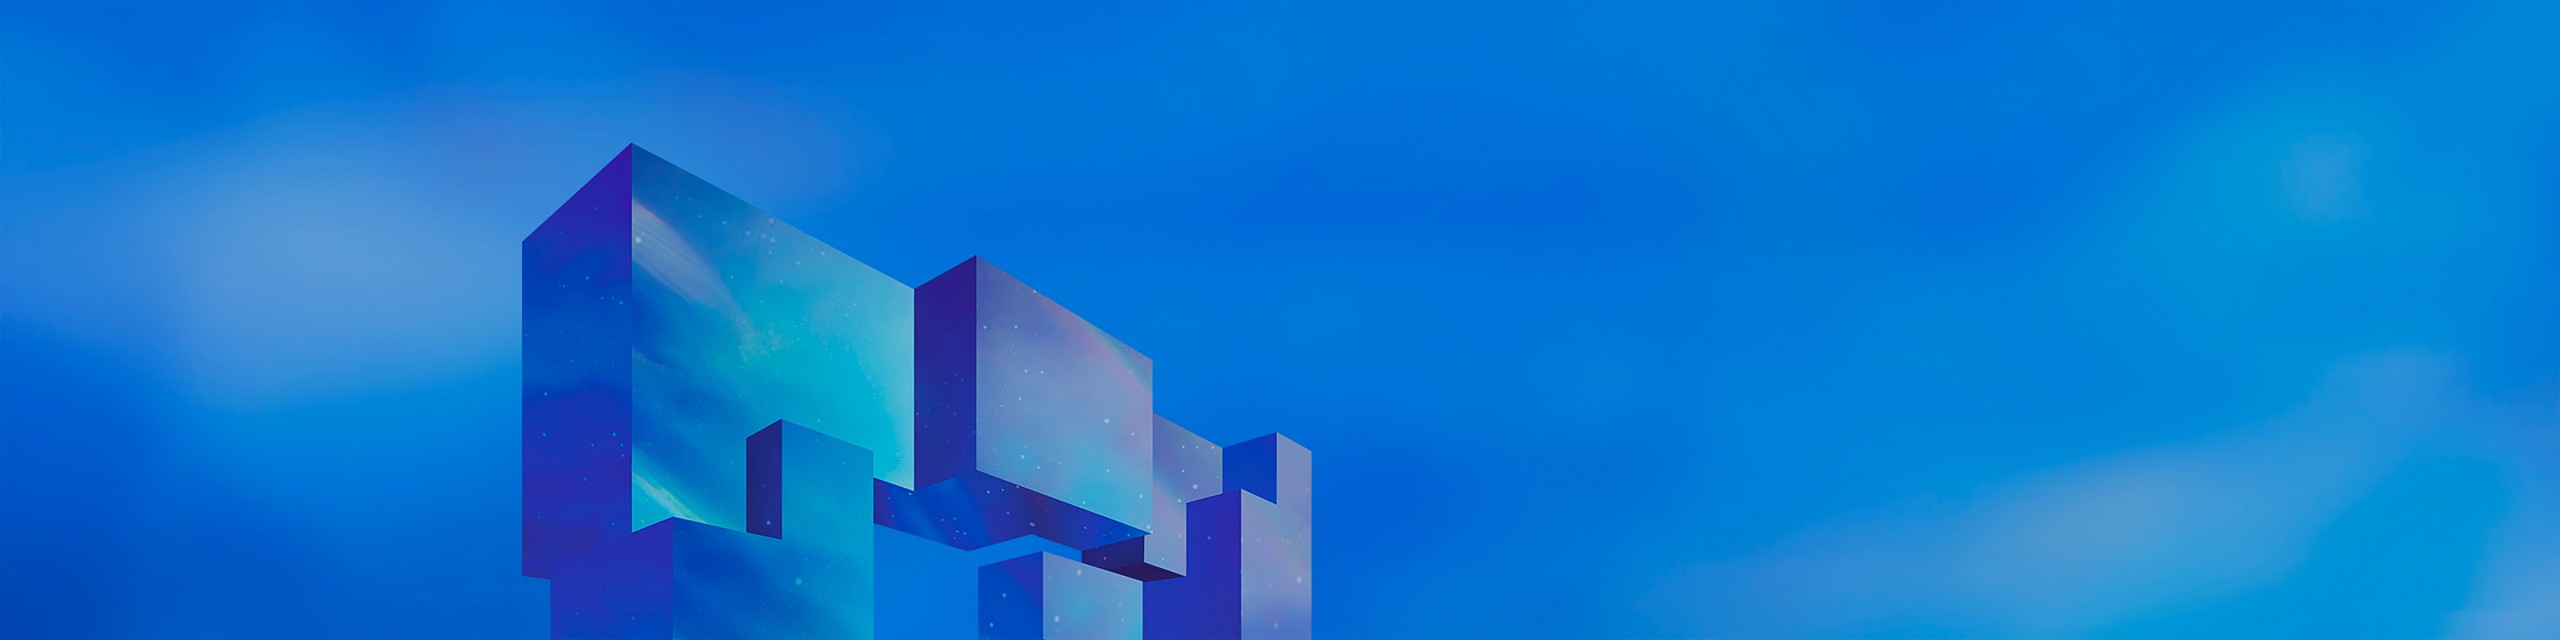
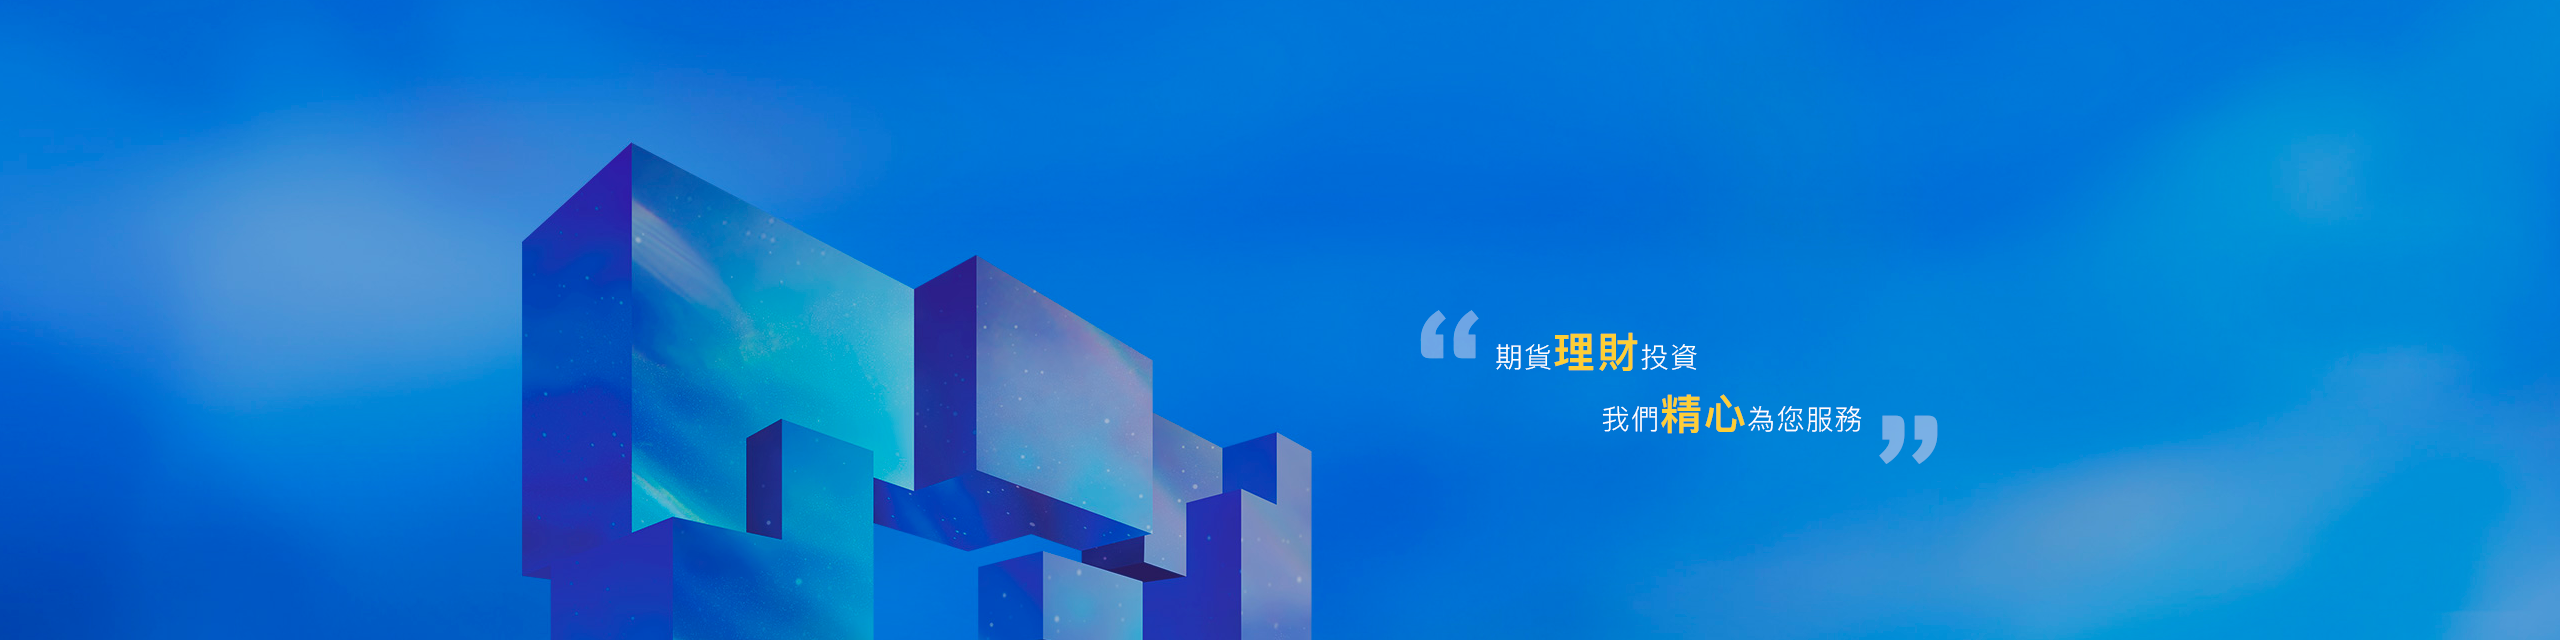
更新至6.26

Changed region(s): [[0.625, 0.625, 0.7812, 0.7188], [0.5312, 0.5, 0.6562, 0.5938]]

diff --git a/demo/view/introduce/brief.js b/demo/view/introduce/brief.js
@@ -97,7 +97,7 @@ class ModuleCulture extends Component{
                  </div>
                 <div className="sum">
                     <p >
-                        公司坚持诚信务实，稳健经营、规范管理，切实的站在客户的立场．从客户的利益出发．确保客户资金和交易信息的安全，从而实现双赢。公司
+                    <span className="common charStart">“</span> 公司坚持诚信务实，稳健经营、规范管理，切实的站在客户的立场．从客户的利益出发．确保客户资金和交易信息的安全，从而实现双赢。公司
                     </p>
                     <p>
                         秉承“诚信、专业、创新、发展”的经营理念，以风险控制为前提、以市场为导向、以客户为中心、以效益为目标，追求可持续发展，
@@ -105,8 +105,8 @@ class ModuleCulture extends Component{
                     <p>
                         力争发展成为“资本充足、运作安全、管理规范、服务优质、效益良好、有核心竞争力”的现代金融服务企业。    
                     </p>
-                    <p>
-                        传播期货知识，培养和成就投资人，与客户共同成长。
+                    <p style={{ marginTop: "-1.5vw"}}>
+                        传播期货知识，培养和成就投资人，与客户共同成长。<span className="common charEnd">”</span> 
                     </p>
                 </div>
 

diff --git a/demo/view/component/chart/chartView/chartBar.js b/demo/view/component/chart/chartView/chartBar.js
@@ -63,7 +63,8 @@ import './chartBar.sass'
                 code: code,
                 height: this._ref.scrollHeight,
                 width: this._ref.scrollWidth,
-                contract: Contracts
+                contract: Contracts,
+                preset: 'mobiole'
             });
             Quote.start('quoteUpdate', code);
         });
@@ -76,7 +77,9 @@ import './chartBar.sass'
                     code: code, 
                     height: this._ref.scrollHeight,
                     width: this._ref.scrollWidth,
-                    contract: Contracts
+                    contract: Contracts,
+                    preset: 'mobiole'
+
                 });
                 Quote.start('quoteUpdate', code);
             }
@@ -266,7 +269,7 @@ class ChartBar extends Component {
                     </div>
                     {this.state.names.map( (name,key)=>{
                         return(
-                            <div  key={key} className={`marketName ${this.state.select === key ? "marketIsStyle" : "marketNoStyle" } `} onClick={ ()=>{this.setState({select: key}) }  }  >{ name }</div>
+                            <div  key={key} className={`marketName ${this.state.select === key ? "marketIsStyle" : "marketNoStyle" } `} onClick={ ()=>{this.setState({select: key}, ()=>{console.log(key)} ) }  }  >{ name }</div>
                         )
                     } )}
                 </div>

diff --git a/demo/view/common/header/header.js b/demo/view/common/header/header.js
@@ -19,9 +19,9 @@ const introduce = (
       <Menu.Item>
         <NavLink to="/introduce/brief">公司简介</NavLink>
       </Menu.Item>      
-      <Menu.Item>
+      {/* <Menu.Item>
         <NavLink to="/introduce/dynamics">公司动态</NavLink>
-      </Menu.Item>
+      </Menu.Item> */}
       <Menu.Item>
         <NavLink to="/introduce/advantages">公司优势</NavLink>
       </Menu.Item>
@@ -64,6 +64,7 @@ class Header extends Component {
     render() {
         return (
                 <div className={"navBox"}>
+                    <img className="cfLogo" src={require("../../../assets/images/cfLogo.png")} />
                     <ul className={"navBar"}>
                         <li>
                             <NavLink exact to="/">首页</NavLink>
@@ -91,9 +92,6 @@ class Header extends Component {
                         </li>
                         <li>
                             <NavLink to="/download">下载软件</NavLink>
-                        </li>
-                        <li>
-                            <NavLink to="/connection">联系我们</NavLink>
                         </li>
                     </ul>
                 </div>

diff --git a/demo/view/common/footer/footer.js b/demo/view/common/footer/footer.js
@@ -7,7 +7,8 @@ import './footer.sass';
 import Home from '../../home/home'
 
 const navItems = [
-    {title:'公司介绍', add:"/introduce/brief", list1:'公司动态', list1Add: '/introduce/dynamics', list2:'公司优势', list2Add:'/introduce/advantages' },
+    // ,list2:'公司动态', list2Add: '/introduce/dynamics'
+    {title:'公司介绍', add:"/introduce/brief",list1:'公司优势',list1Add:'/introduce/advantages' },
     {title:'行情中心', add:"/marketcenter",  list1:'国际期货', list1Add:'/marketcenter/international', list2:'股指期货', list2Add:'/marketcenter/stockindex', list3:'国内期货', list3Add:'/marketcenter/domestic' },
     {title:'资讯中心', add:"/infocenter", list1:'行业资讯', list1Add:'/infocenter/marketinfo', list2:'财经日历', list2Add:'/infocenter/dailynews', list3:'每周洞察' , list3Add:'/infocenter/everyweek' },
     {title:'下载中心', add:"/download", list1:'财经期货有限公司：贵金属|期货', list2:'客服QQ：2865002835',  list3:'地 址：香港岛薄扶林道东一单元', list4:'邮 箱：info@caifuqihuo.com'},

diff --git a/demo/view/component/tabControl/tabControl.js b/demo/view/component/tabControl/tabControl.js
@@ -45,7 +45,26 @@ class TabsControl extends React.Component{
 						}
 				</div>
 			)
-		}else{
+		}else if(route.includes("introduce")){
+			return(
+            
+				<div>
+					{ /* 动态生成Tab导航 */ }
+					<div className="tab_title_wrap">
+						{ 
+							React.Children.map( _this.props.children , ( element,index ) => {
+								return(
+									<NavLink style={ { width:"50%" } }  to={element.props.add} onClick={ () => { _this.setState({ currentIndex : index }) } } className={ _this.check_title_index( index ) }>{ element.props.name} </NavLink>
+									)
+							}) 
+						}
+	
+					</div>
+				</div>
+			)			
+
+		}
+		else{
 			return(
             
 				<div>
@@ -62,17 +81,6 @@ class TabsControl extends React.Component{
 						}
 	
 					</div>
-					{ /* Tab内容区域 */ }
-					{/* <div className="tab_item_wrap">
-						{
-							React.Children.map(this.props.children,( element,index )=>{
-								return(
-									<div className={ this.check_item_index( index ) }>{ element }</div>
-								)
-							})
-						}
-					</div> */}
-	
 				</div>
 			)
 		}

diff --git a/demo/view/introduce/introduce.js b/demo/view/introduce/introduce.js
@@ -29,34 +29,19 @@ class Banner extends Component{
 
 class TabComponent extends React.Component{
 
-    
+   
     render(){
-        
-
         return(
             <div className="container">
-                <TabsControl>
-                    <div add="/introduce/brief" name="公司简介">
-                    </div>
-                    <div add="/introduce/dynamics" name="公司动态">
-                    </div>
-                    <div add="/introduce/advantages" name="公司优势">
-                    </div>
+                <TabsControl style={ { width:"50%" } }>
+                    <div  add="/introduce/brief" name="公司简介"></div>
+                    <div  add="/introduce/advantages" name="公司优势"></div>
                 </TabsControl>
             </div>
             );
     }
 }
 
-
-class Contain extends Component{
-    render(){
-        return(
-            <div className={"contain"}>
-            </div>
-        )
-    }
-}
 
 
  class Introduce extends Component {

diff --git a/demo/view/common/header/header.sass b/demo/view/common/header/header.sass
@@ -4,12 +4,17 @@
     width: 100%
     height: 6vw
     // top: 2.5%
+    display: flex
+    padding: 0 16vw
     .navBar
         display: flex
         flex-direction: row
-        padding-left: 50%
+        // padding-left: 50%
         font-size: 0.8vw
         padding-top: 3%
+        position: relative
+        justify-content: rigflex-end
+        left: 35vw
         li 
             padding-left: 2vw
             font-size: 0.8vw
@@ -23,5 +28,7 @@
             .anticon svg
                 font-size: 0.9vw
 
-
-
+    .cfLogo 
+        width: 6vw
+        height: 1.4vw
+        margin-top: 2.5%    

diff --git a/demo/view/infoCenter/infoCenter.sass b/demo/view/infoCenter/infoCenter.sass
@@ -3,9 +3,9 @@
     height: 100%
     overflow-y: scroll
     .banner
-        background: url(../../assets/images/banner.png)  no-repeat
+        background: url(../../assets/images/infoBanner.png)  no-repeat
         background-size: 100%
-        height: 49vw  
+        height: 25vw  
     .contain
         width: 100%
         height: 100%

diff --git a/demo/view/introduce/brief.sass b/demo/view/introduce/brief.sass
@@ -126,3 +126,11 @@
         margin: 10vw 25% 0 25%
         margin-top: 10vw
         color: #0C101E
+        .common
+            font-size: 5vw
+            position: relative
+            color: rgba(0,0,0,0.08)    
+        .charStart
+            top: 2vw
+        .charEnd  
+            top: 3vw

diff --git a/demo/view/introduce/introduce.sass b/demo/view/introduce/introduce.sass
@@ -10,5 +10,4 @@
         width: 100%
         height: 100%
 
-
-        
+            
